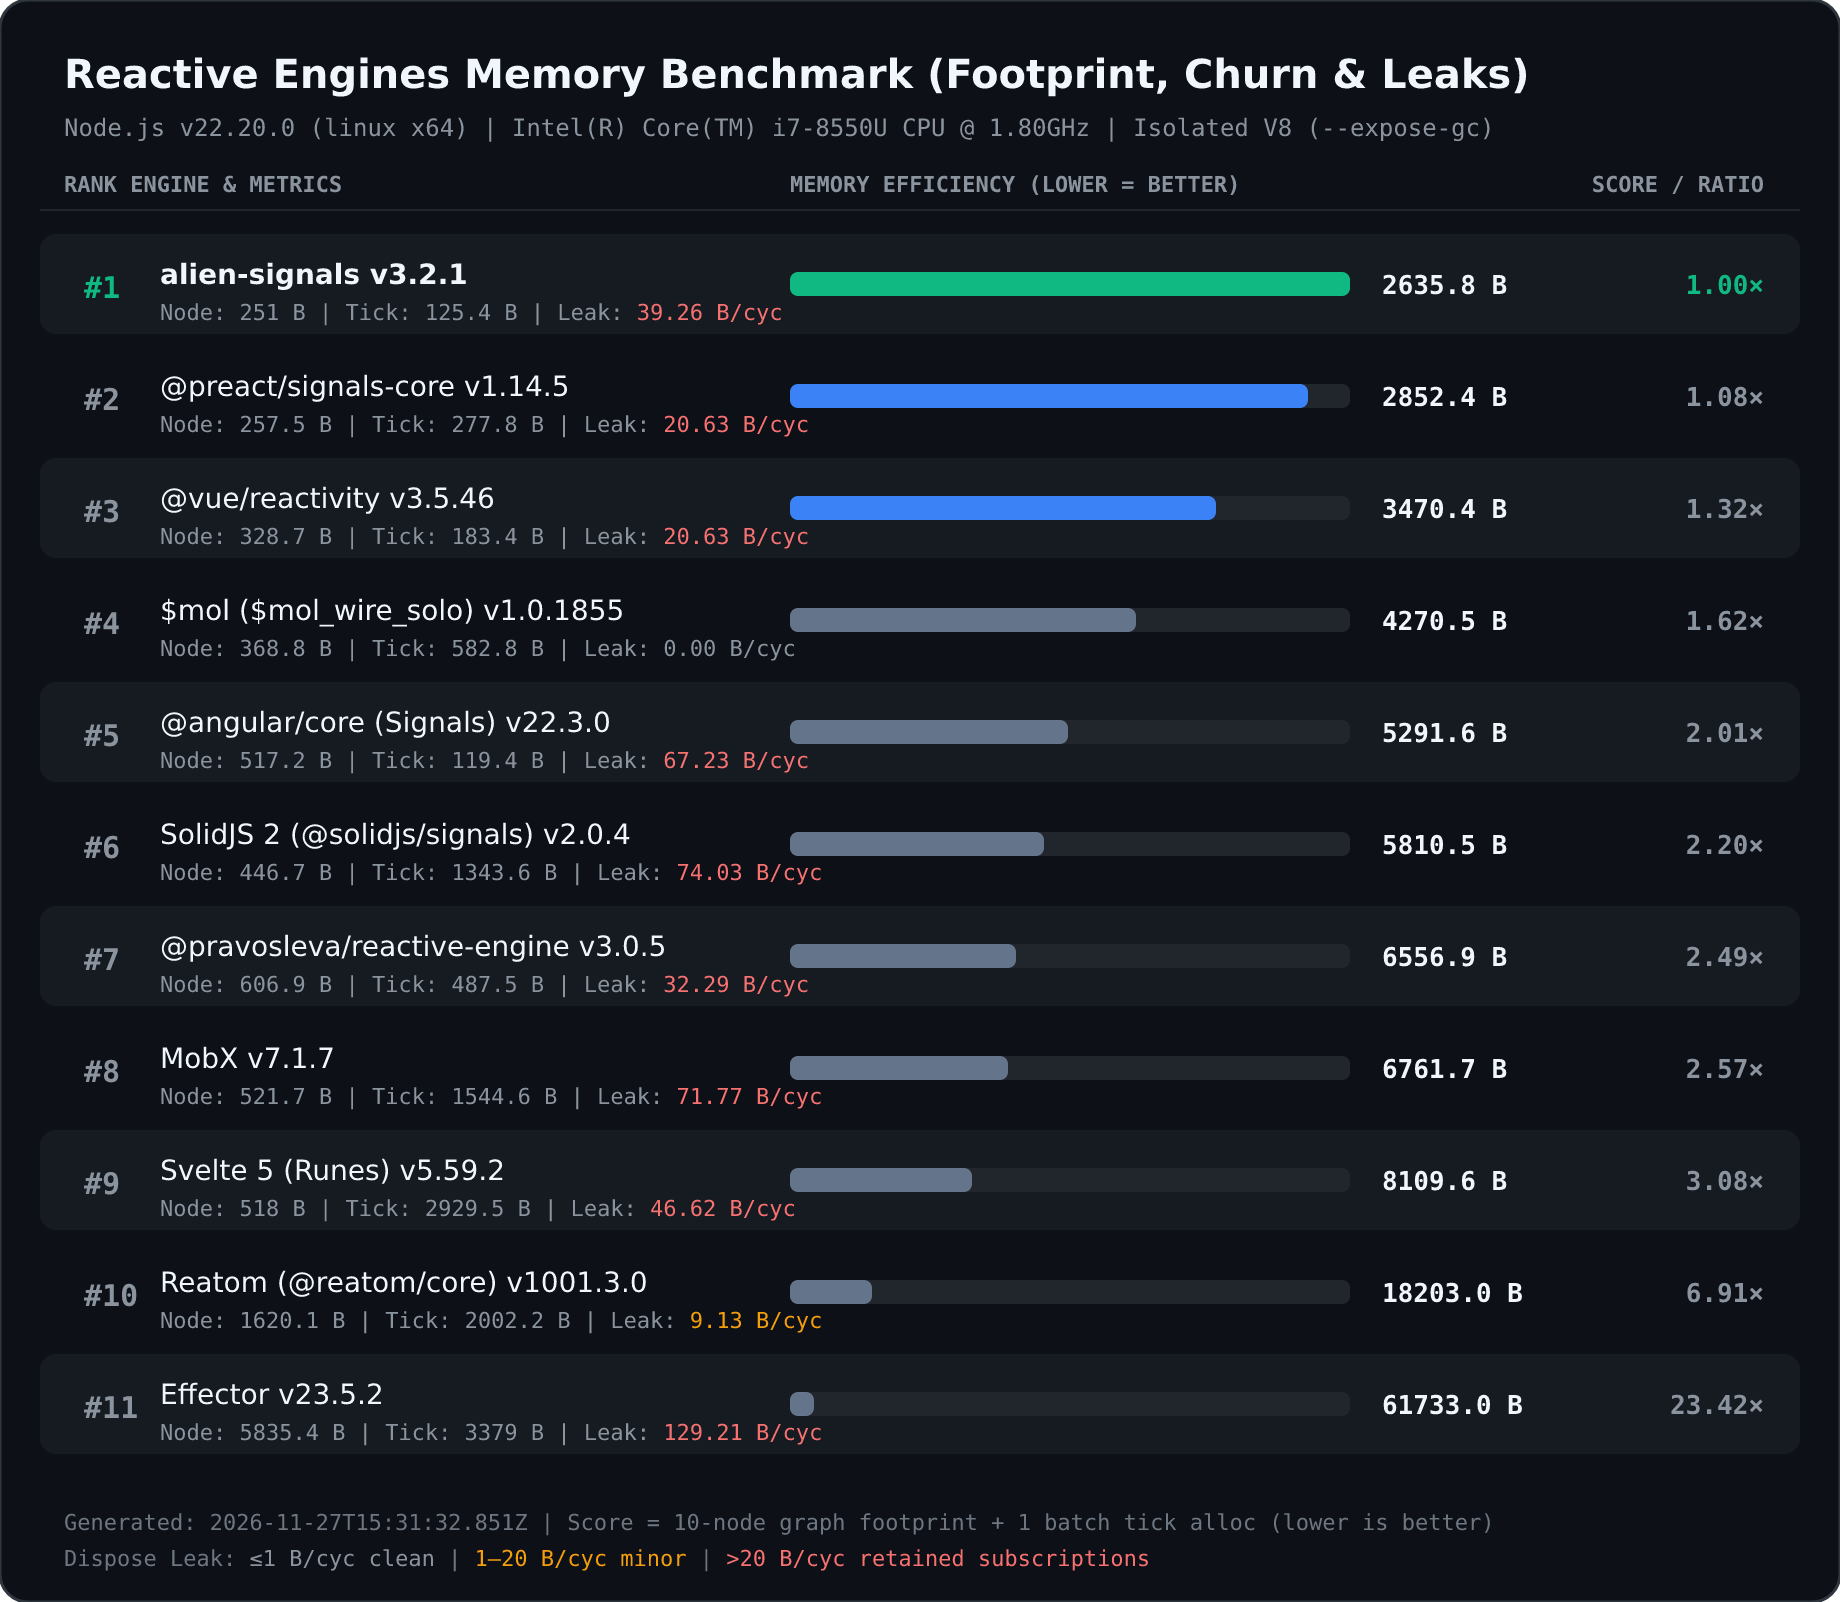
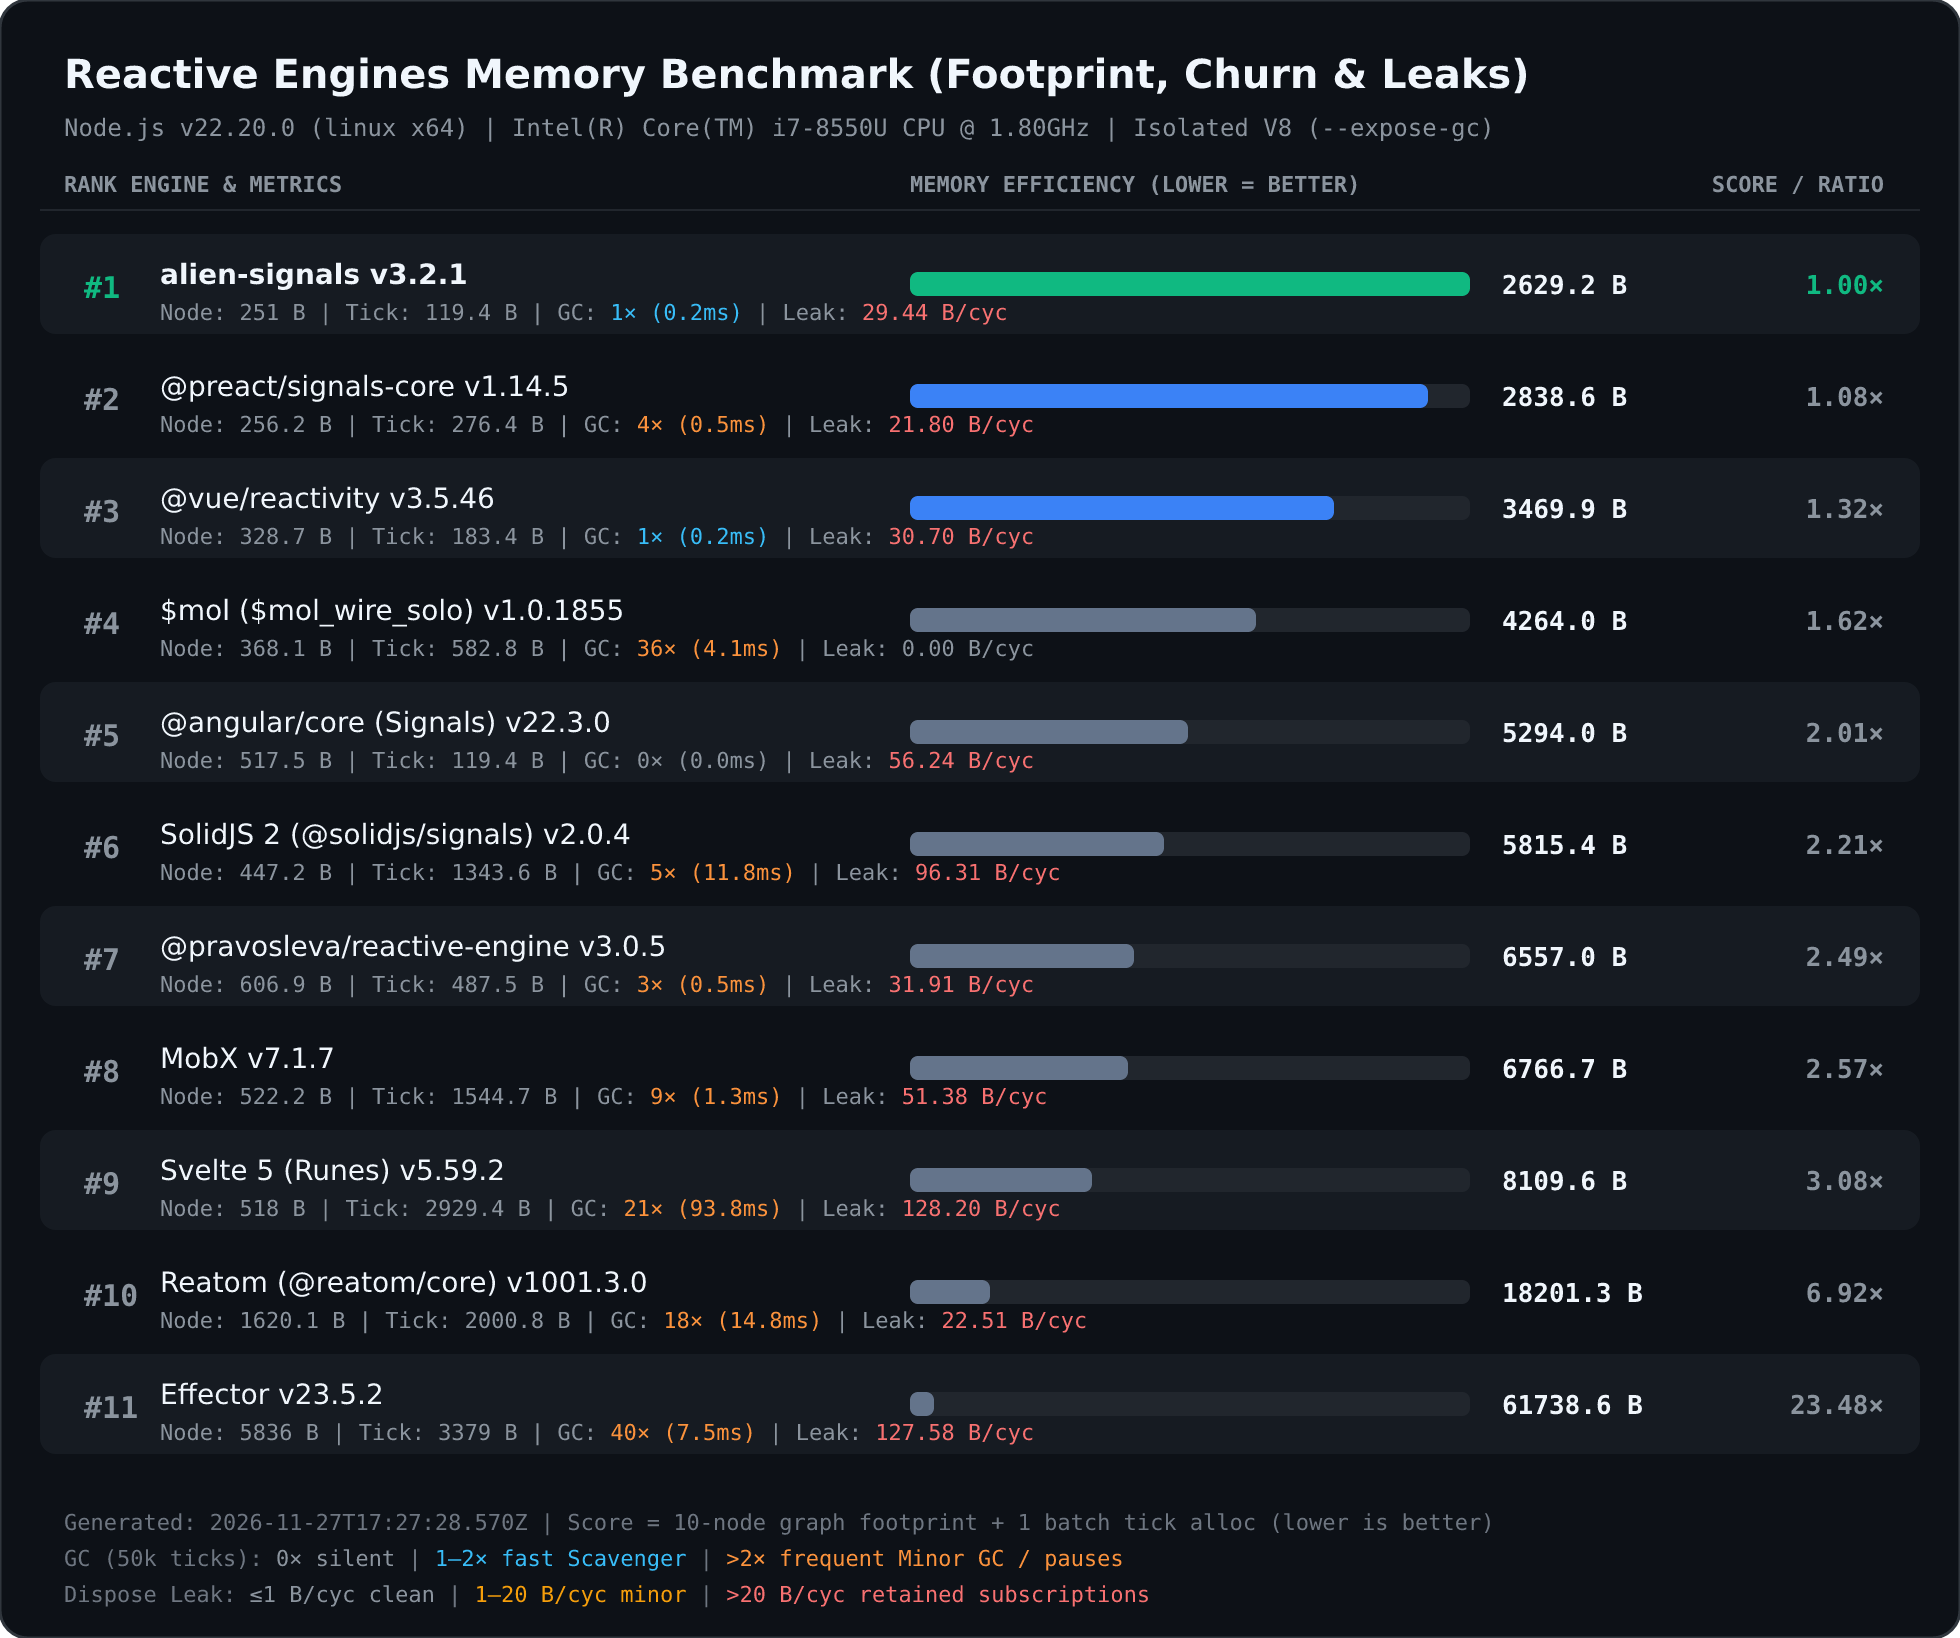
V8 GC pause telemetry (50k ticks) added; SVG/README reports updated

diff --git a/README.md b/README.md
@@ -1,28 +1,28 @@
 # reactive-memory-benchmark
 
-Воспроизводимый бенчмарк потребления памяти, давления на сборщик мусора V8 (Young Generation) и утечек при динамическом монтировании/уничтожении графа для **10 реактивных движков** в изолированных процессах Node.js (`--expose-gc`).
+Воспроизводимый бенчмарк потребления памяти, давления на сборщик мусора V8 (Young Generation) и утечек при динамическом монтировании/уничтожении графа для **Реактивных движков** в изолированных процессах Node.js (`--expose-gc`).
 
 ![Reactive Engines Memory Benchmark](./results/last-benchmark.png)
 
 ## 1. Результаты последнего прогона
 
-* **Дата замера:** `2026-11-27T15:31:32.851Z`
+* **Дата замера:** `2026-11-27T17:27:28.570Z`
 * **Среда выполнения:** Node.js `v22.20.0` (`linux x64`), `Intel(R) Core(TM) i7-8550U CPU @ 1.80GHz`
 * **Масштаб тестов:** `10 000` узлов (Footprint) | `5 000` тиков (Churn) | `2 000` циклов mount/dispose (Leaks)
 
-| Rank | Engine | Node (B) | Tick Alloc (B) | Leak (B/cycle) | Memory Score (B) | Ratio |
-| :---: | :--- | :---: | :---: | :---: | :---: | :---: |
-| **1** | **alien-signals `v3.2.1`** | `251` | `125.4` | `39.26` | `2635.8` | `1.00×` |
-| **2** | @preact/signals-core `v1.14.5` | `257.5` | `277.8` | `20.63` | `2852.4` | `1.08×` |
-| **3** | @vue/reactivity `v3.5.46` | `328.7` | `183.4` | `20.63` | `3470.4` | `1.32×` |
-| **4** | $mol ($mol_wire_solo) `v1.0.1855` | `368.8` | `582.8` | `0.00` | `4270.5` | `1.62×` |
-| **5** | @angular/core (Signals) `v22.3.0` | `517.2` | `119.4` | `67.23` | `5291.6` | `2.01×` |
-| **6** | SolidJS 2 (@solidjs/signals) `v2.0.4` | `446.7` | `1343.6` | `74.03` | `5810.5` | `2.20×` |
-| **7** | @pravosleva/reactive-engine `v3.0.5` | `606.9` | `487.5` | `32.29` | `6556.9` | `2.49×` |
-| **8** | MobX `v7.1.7` | `521.7` | `1544.6` | `71.77` | `6761.7` | `2.57×` |
-| **9** | Svelte 5 (Runes) `v5.59.2` | `518` | `2929.5` | `46.62` | `8109.6` | `3.08×` |
-| **10** | Reatom (@reatom/core) `v1001.3.0` | `1620.1` | `2002.2` | `9.13` | `18203` | `6.91×` |
-| **11** | Effector `v23.5.2` | `5835.4` | `3379` | `129.21` | `61733` | `23.42×` |
+| Rank | Engine | Node (B) | Tick Alloc (B) | Minor GC | GC Pause (ms) | Leak (B/cycle) | Memory Score (B) | Ratio |
+| :---: | :--- | :---: | :---: | :---: | :---: | :---: | :---: | :---: |
+| **1** | **alien-signals `v3.2.1`** | `251` | `119.4` | `1×` | `0.18` | `29.44` | `2629.2` | `1.00×` |
+| **2** | @preact/signals-core `v1.14.5` | `256.2` | `276.4` | `4×` | `0.48` | `21.80` | `2838.6` | `1.08×` |
+| **3** | @vue/reactivity `v3.5.46` | `328.7` | `183.4` | `1×` | `0.16` | `30.70` | `3469.9` | `1.32×` |
+| **4** | $mol ($mol_wire_solo) `v1.0.1855` | `368.1` | `582.8` | `36×` | `4.14` | `0.00` | `4264` | `1.62×` |
+| **5** | @angular/core (Signals) `v22.3.0` | `517.5` | `119.4` | `0×` | `0.00` | `56.24` | `5294` | `2.01×` |
+| **6** | SolidJS 2 (@solidjs/signals) `v2.0.4` | `447.2` | `1343.6` | `5×` | `11.85` | `96.31` | `5815.4` | `2.21×` |
+| **7** | @pravosleva/reactive-engine `v3.0.5` | `606.9` | `487.5` | `3×` | `0.45` | `31.91` | `6557` | `2.49×` |
+| **8** | MobX `v7.1.7` | `522.2` | `1544.7` | `9×` | `1.33` | `51.38` | `6766.7` | `2.57×` |
+| **9** | Svelte 5 (Runes) `v5.59.2` | `518` | `2929.4` | `21×` | `93.77` | `128.20` | `8109.6` | `3.08×` |
+| **10** | Reatom (@reatom/core) `v1001.3.0` | `1620.1` | `2000.8` | `18×` | `14.76` | `22.51` | `18201.3` | `6.92×` |
+| **11** | Effector `v23.5.2` | `5836` | `3379` | `40×` | `7.55` | `127.58` | `61738.6` | `23.48×` |
 
 ## 2. Методология и устройство тестов
 
@@ -84,9 +84,10 @@
 
 ### Как интерпретировать метрики памяти
 
-* **`Node (B)` — статический вес одного реактивного узла** после двойного `global.gc()` (на графе из `10 000` узлов: `2 500` сигналов → `5 000` computed → `2 500` эффектов). **Показывает, насколько компактны внутренние структуры движка** (интрузивные списки против `Set`/`Map` и замыканий).
+* **`Node (B)` — статический вес одного реактивного узла** после двойного `global.gc()` (на графе из `10 000` узлов). **Показывает, насколько компактны внутренние структуры движка** (интрузивные списки против `Set`/`Map` и замыканий).
 * **`Tick Alloc (B)` — чистые временные аллокации за 1 батч-тик** в Young Generation кучи V8 (за вычетом базового следа `baseline`). **Отражает, создаёт ли движок очереди, массивы уведомлений или замыкания на каждый тик.**
-* **`Leak (B/cycle)` — остаточная память после `2 000` циклов создания и уничтожения динамического подграфа**, подписанного на долгоживущие корневые сигналы. **Значения `≤ 1.00 B/cycle` говорят о чистой отписке без висячих ссылок.**
+* **`Minor GC` и `GC Pause (ms)` — количество срабатываний и суммарное время пауз сборщика мусора V8** (`PerformanceObserver` с `entryTypes: ['gc']`) на стресс-прогоне из `50 000` тиков (без принудительных `global.gc()`). **Показывает реальный характер «пилы» памяти:** короткоживущие однопоколенческие объекты (например, у Effector: `40× / 7.55 ms`) быстро заполняют Young Generation, но почти бесплатно выметаются *Scavenger*, тогда как задержка ссылок в долгоживущих структурах (например, у Svelte 5 (Runes): `21× / 93.77 ms`) резко увеличивает суммарное время пауз GC.
+* **`Leak (B/cycle)` — остаточная память после `2 000` циклов создания и уничтожения динамического подграфа**, подписанного на долгоживущие корневые сигналы. **Значения `≤ 1.00 B/cycle` говорят о чистой отписке без висячих ссылок.**
 * **`Memory Score (B)`** — композитный индекс (`10 × Node (B) + Tick Alloc (B)`), отражающий суммарный след типового 10-узлового виджета и одного его обновления (меньше — лучше).
 
 ## 3. Запуск стенда (`bench.sh`)
